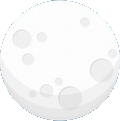
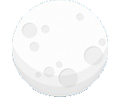
First iteration

diff --git a/actualassignment/index.js b/actualassignment/index.js
@@ -2,18 +2,37 @@ const dog = document.querySelector("#dog");
 const owner = document.querySelector("#owner");
 const bone = document.querySelector("#bone");
 const time = document.querySelector("#time");
-const barkk = document.querySelector('#bark')
+const barkk = document.querySelector('#bark');
+const bg = document.querySelector('#bg')
 
-// time.addEventListener('click',  shiftt);
+time.addEventListener('click',  shifttt);
 dog.addEventListener("mouseover", bark);
-owner.addEventListener("click", throww);
+owner.addEventListener("click", appear);
 
-function throww() {
-  // dog.addEventListener('click', run);
+function shifttt() {
+  time.classList.remove("sun");
+  time.classList.add("moon");
+  bg.style.backgroundImage = "url(images/parkn.png)";
+}
+
+function appear() {
   bone.style.display = 'block';
-
+  bone.addEventListener("click", throww);
 }
 function bark() {
   dog.classList.add('bark');
   barkk.play();
 }
+function throww() {
+  bone.classList.add("throw");
+  barkk.onended = function run() {
+      dog.classList.remove("bark");
+      dog.classList.add("run");
+      dog.removeEventListener("mouseover", bark);
+      }
+}
+setTimeout(function shiftt() {
+    time.classList.remove("sun");
+    time.classList.add("moon");
+    bg.style.backgroundImage = "url(images/parkn.png)";
+}, 30000);

diff --git a/actualassignment/index.css b/actualassignment/index.css
@@ -28,18 +28,16 @@
   margin:auto;
 }
 
-.glow{
-    animation: glow 1s infinite alternate ;
-    border-radius: 100px;
-}
+.glow {
 
+}
 @keyframes glow {
-    from {
-        box-shadow: 0 0 10px -10px #aef4af;
-    }
-    to{
-        box-shadow: 0 0 10px 10px #aef4af;
-    }
+  50% {
+    opacity: 0.7;
+  }
+  100% {
+    opacity: 1;
+  }
 }
 
 #bg {
@@ -85,11 +83,39 @@
   position: relative;
   margin: auto;
 }
+.throw {
+  animation: throw 2s forwards;
+}
+@keyframes throw {
+  to {
+    transform: translate(50em, 4.5em) rotate(180deg);
+  }
 
+}
+.run {
+  animation: run 1s forwards;
+  z-index: 100;
+}
+@keyframes run {
+  to {
+    transform: translate(22em);
+  }
+}
 .sun {
   background-image: url(images/sun.png);
   height:113px;
   width: 139px;
+  animation: glow 1s infinite;
+}
+.moon {
+  background-image: url(images/moon.png);
+  bottom: -10px;
+  height:97px;
+  width: 120px;
+  background-position: center;
+}
+.night {
+  background-image: url(images/night.png);
 }
 .bark {
   animation: bark 1s 1;

diff --git a/actualassignment/index.html b/actualassignment/index.html
@@ -4,19 +4,18 @@
 <head>
   <meta charset="UTF-8">
   <meta name="viewport" content="width=device-width, initial-scale=1.0">
-  <title>Assignment</title>
+  <title>Animations 2 </title>
   <link rel="stylesheet" type="text/css" title="Cool stylesheet" href="index.css">
 </head>
 
 <body>
   <div id="bg">
-    <div id="time" class="sun"></div>
+    <div id="time" class="sun" ></div>
     <div id="dog"></div>
     <div id="owner"></div>
     <div id="bone"></div>
   </div>
     <audio id="bark" src="bark.mp3"> </audio>
- <button id="btnglow"></button>
     <div>
   <a class="btn" href="diagram.html">Diagram</a>
   <a class="btn" href="storybord.html">Story Board</a>

diff --git a/actualassignment/storybord.html b/actualassignment/storybord.html
@@ -4,7 +4,7 @@
 <head>
   <meta charset="UTF-8">
   <meta name="viewport" content="width=device-width, initial-scale=1.0">
-  <title>Assignment</title>
+  <title>Animations 2 - StoryBoard</title>
   <link rel="stylesheet" type="text/css" title="Cool stylesheet" href="index.css">
 </head>
 

diff --git a/actualassignment/diagram.html b/actualassignment/diagram.html
@@ -4,7 +4,7 @@
 <head>
   <meta charset="UTF-8">
   <meta name="viewport" content="width=device-width, initial-scale=1.0">
-  <title>Assignment</title>
+  <title>Animations 2 - Diagram </title>
   <link rel="stylesheet" type="text/css" title="Cool stylesheet" href="index.css">
 </head>
 
